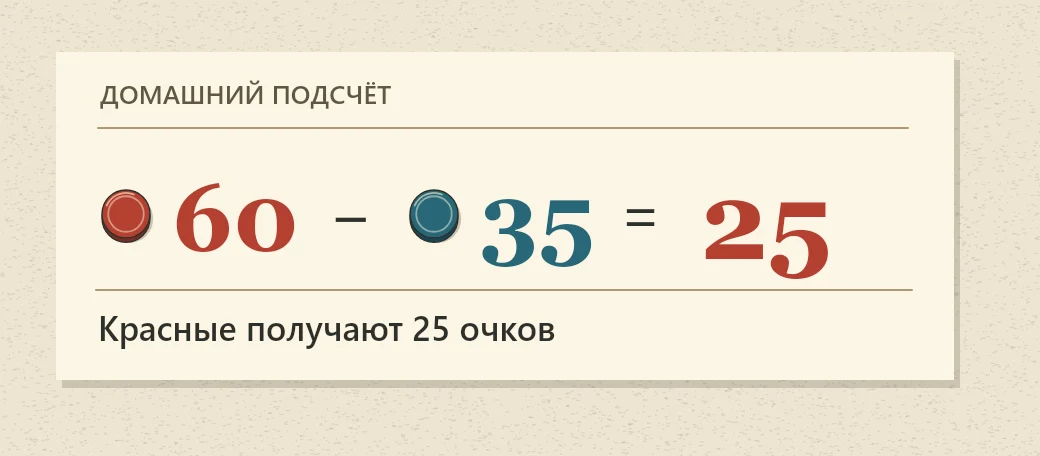
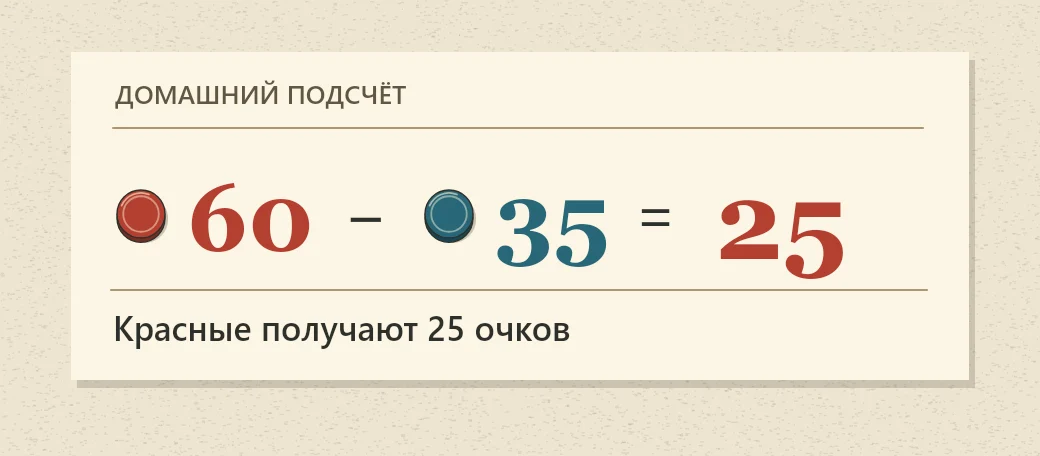
Balance Crokinole illustrations for phone layouts

diff --git a/app/sw.js b/app/sw.js
@@ -1,6 +1,6 @@
 // Offline cache for the phone version: the app's own files only.
 // Service workers run only over HTTPS (or on localhost), so offline mode needs the app hosted on HTTPS.
-const CACHE = "nastolki-v76";
+const CACHE = "nastolki-v77";
 const FONTS = ["onest-cyrillic-400", "onest-latin-400", "onest-cyrillic-500", "onest-latin-500", "onest-cyrillic-600", "onest-latin-600",
   "onest-cyrillic-700", "onest-latin-700", "unbounded-cyrillic-600", "unbounded-latin-600", "unbounded-cyrillic-700", "unbounded-latin-700"]
   .map(f => `fonts/${f}-normal.woff2`);

diff --git a/app/js/app.js b/app/js/app.js
@@ -2900,7 +2900,7 @@
   window.matchMedia("(prefers-color-scheme: dark)").addEventListener("change", applyTheme);
 
   /* ---------- start ---------- */
-  BH.version = "0.32.1";
+  BH.version = "0.32.2";
   applyTheme();
   // reloaded while a sheet was open: step off its history entry; a fresh start has nothing before it
   if (history.state && history.state.ov) history.back();

diff --git a/docs/ui.md b/docs/ui.md
@@ -157,6 +157,7 @@
 Каждое новое или изменённое место — глазами, в обеих темах:
 - значки: у места, где стоит значок (`IC.*`), есть стиль для svg — линии цветом текста и свой размер; иначе значок заливается чёрным и раздувается (так было с кубком в чипе «Победа банды»);
 - выравнивание соседних строк одного вида одинаковое;
+- на игровых схемах сверять расстояния от центра доски до парных подписей и рядов фишек, в том числе при другом количестве игроков или фишек. Смотреть весь комплект в размере карточки телефона;
 - консоль без ошибок: ошибка в подгонке экрана уже однажды остановила загрузку картинок.
 
 `scripts/ui-check.js` ловит текст, который не помещается, значки без цвета или огромные и ошибки кода — запускать на 360, 375 и 412 px и хотя бы раз в тёмной теме. Но он не видит всё: скриншот обязателен.
